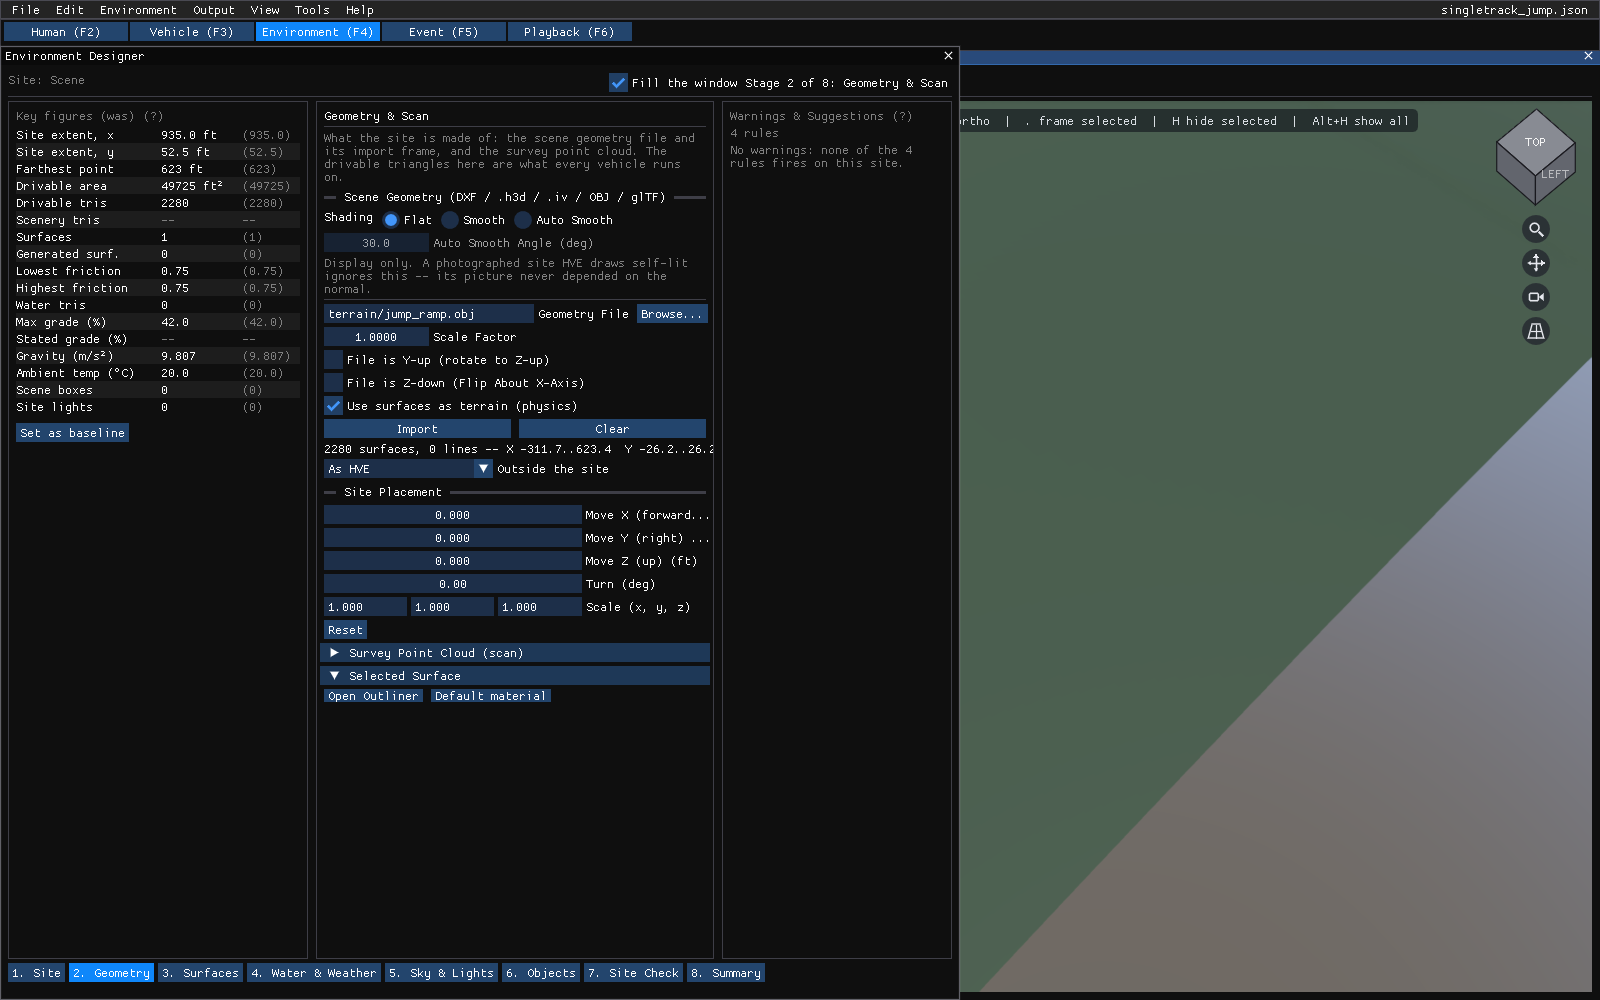
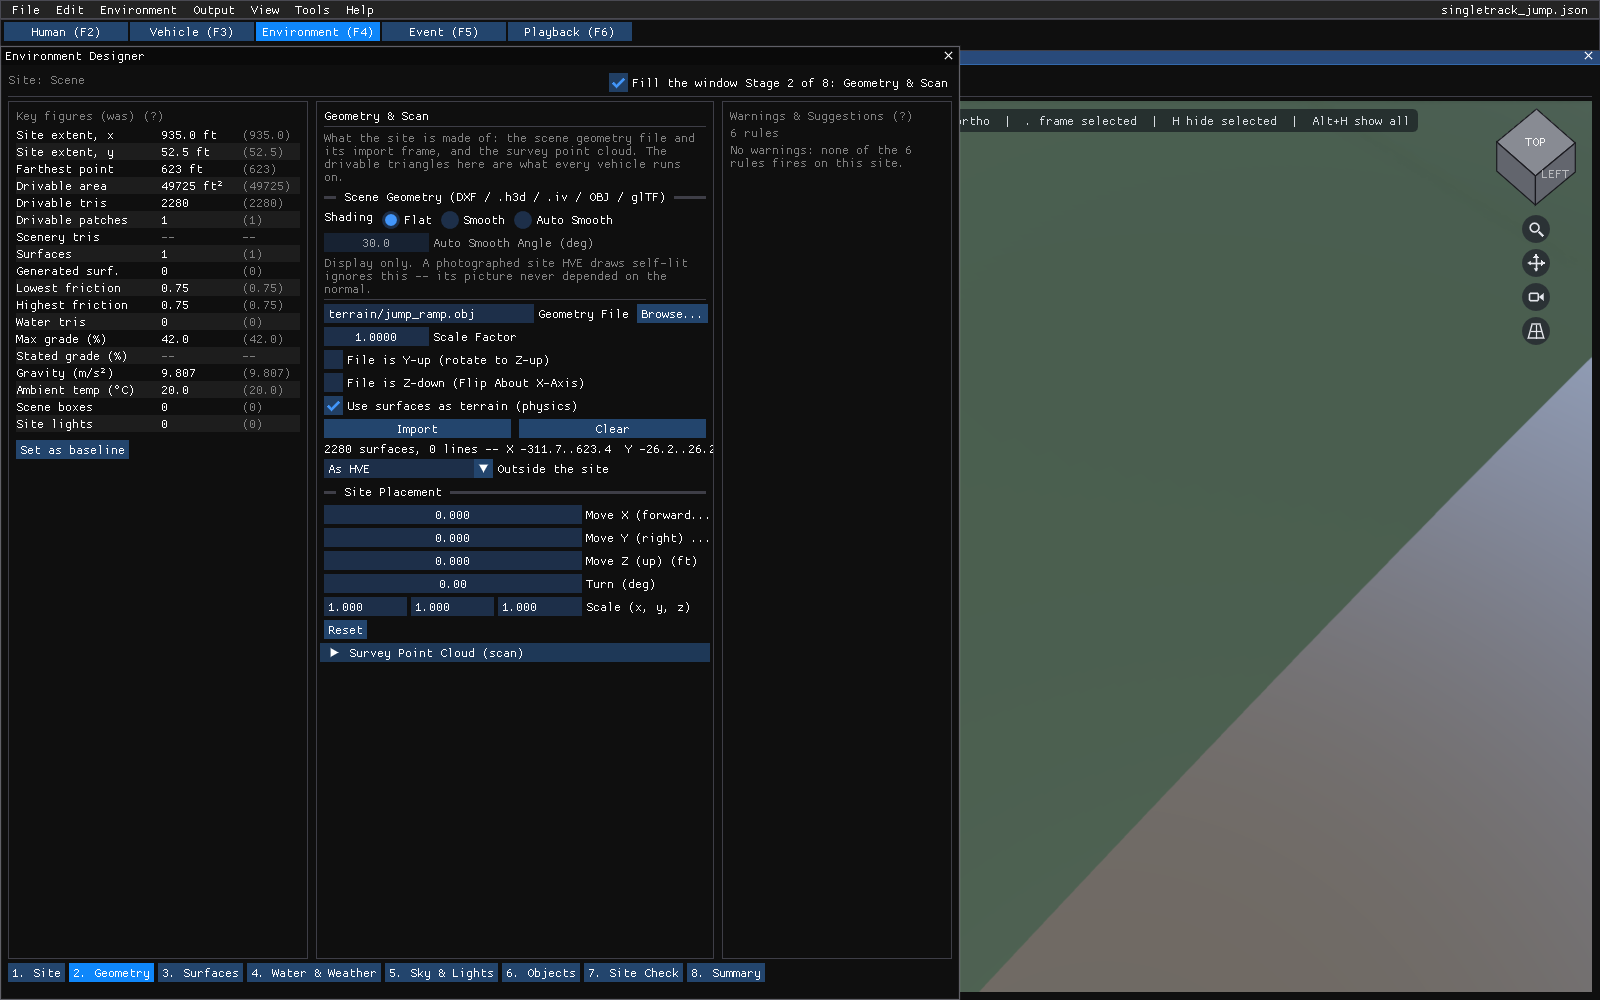
Manuals: Environment Designer E2 -- the Surfaces stage, drivable patches and two surface rules (hve-next 10a45dc5)
Claude-Session: https://claude.ai/code/session_01ExFGmXKkveRikV1Nmb9fu5

Changed region(s): [[0.1875, 0.651, 0.4688, 0.713], [0.0, 0.217, 0.0938, 0.465]]

diff --git a/hve2027/docs/manuals/hve-users/05-environment-editor/14-environment-designer.md b/hve2027/docs/manuals/hve-users/05-environment-editor/14-environment-designer.md
@@ -26,9 +26,20 @@ so a field has one editor and nothing is reachable in one and not the other.
 2. **Geometry**: the scene geometry file, its import frame and the survey point
    cloud — the Terrain section. The drivable triangles here are what every
    vehicle runs on.
-3. **Surfaces**: the Surface Generator, and **Open the Outliner** for the layers,
-   surfaces and objects with their Drive switch; Edit Mode (Tab) in the 3-D
-   view splits a surface by its faces.
+3. **Surfaces**: the Outliner's tree hosted on the stage (layers, surfaces and
+   objects with their eye and Drive switches; **Open the Outliner** puts the
+   same tree in its own window), the **Selected Surface** section for the
+   surface picked in the tree or the 3-D view, **Edit Mode (Tab)** to pick
+   faces in the viewport and give them a material or split a surface by them,
+   and the Surface Generator. The Key figures strip's **Drivable patches** row
+   counts the drivable surface's connected pieces: more than one means a wheel
+   can run off an edge onto the default plane.
+
+   ![Figure 14-2](../images/hvn-05-environment-designer-surfaces.png)
+
+   *Figure 14-2: The Surfaces stage: the Outliner tree, Edit Mode, the
+   Selected Surface section and the Surface Generator on one page.*
+
 4. **Water & Weather**: gravity, rolling resistance, the ambient air and wind,
    and standing water — the Physical section.
 5. **Sky & Lights**: the sun, the sky and the site's lights. Display only, and
@@ -59,6 +70,8 @@ keeps the current values as the "was" column for this case.
 | Fix | Geometry | The site names a geometry file but no triangle is drivable, so vehicles run on the default plane. |
 | Note | Site | The site reaches more than 2 km from the origin, where single precision coarsens. |
 | Note | Water & Weather | The stated gravity differs from 9.80665 m/s² by more than 1%. |
+| Consider | Surfaces | The drivable surface is more than one patch and the smallest is under 2% of the area, so its edge drops a wheel onto the default plane. |
+| Note | Surfaces | A palette entry owns no drawn or drivable triangle, so editing its friction changes nothing. |
 
 A rule that lacks its input stays silent, and the count beside the panel's
 title lists what is checked on hover.
